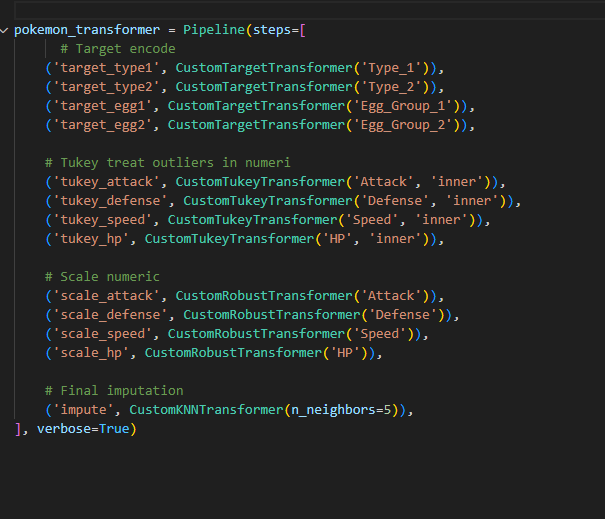
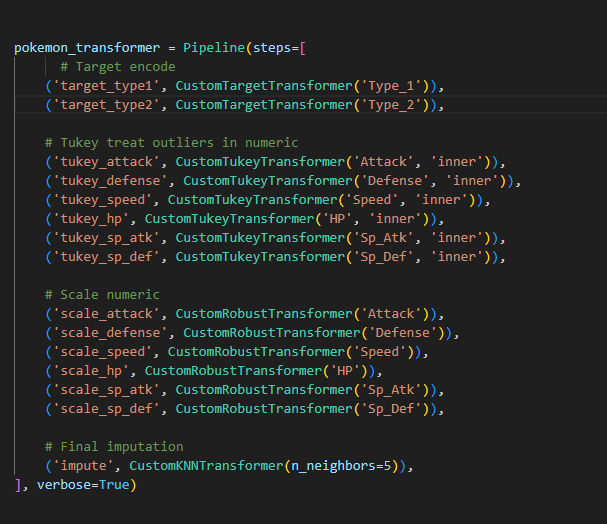
fixed wrangle

Changed region(s): [[0.0, 0.0308, 0.8628, 0.9557]]

diff --git a/library.py b/library.py
@@ -759,25 +759,26 @@ def halving_search(model, grid, x_train, y_train, factor=3, min_resources="exhau
 
 
 
-
 pokemon_transformer = Pipeline(steps=[
       # Target encode
     ('target_type1', CustomTargetTransformer('Type_1')),
     ('target_type2', CustomTargetTransformer('Type_2')),
-    ('target_egg1', CustomTargetTransformer('Egg_Group_1')),
-    ('target_egg2', CustomTargetTransformer('Egg_Group_2')),
 
-    # Tukey treat outliers in numeri
+    # Tukey treat outliers in numeric
     ('tukey_attack', CustomTukeyTransformer('Attack', 'inner')),
     ('tukey_defense', CustomTukeyTransformer('Defense', 'inner')),
     ('tukey_speed', CustomTukeyTransformer('Speed', 'inner')),
     ('tukey_hp', CustomTukeyTransformer('HP', 'inner')),
+    ('tukey_sp_atk', CustomTukeyTransformer('Sp_Atk', 'inner')),
+    ('tukey_sp_def', CustomTukeyTransformer('Sp_Def', 'inner')),
 
     # Scale numeric
     ('scale_attack', CustomRobustTransformer('Attack')),
     ('scale_defense', CustomRobustTransformer('Defense')),
     ('scale_speed', CustomRobustTransformer('Speed')),
     ('scale_hp', CustomRobustTransformer('HP')),
+    ('scale_sp_atk', CustomRobustTransformer('Sp_Atk')),
+    ('scale_sp_def', CustomRobustTransformer('Sp_Def')),
 
     # Final imputation
     ('impute', CustomKNNTransformer(n_neighbors=5)),

diff --git a/pipeline-documentation.md b/pipeline-documentation.md
@@ -4,28 +4,27 @@
 
 ## What this pipeline does
 
-- **Target encode:**  
-  Encodes `Type_1`, `Type_2`, `Egg_Group_1`, and `Egg_Group_2` using target encoding.
+- **Target encode:**
+  Encodes `Type_1` and `Type_2` using target encoding.
 
-- **Handle outliers (Tukey):**  
-  Clips outliers in  `Attack`, `Defense`, `Speed`, and `HP` using the inner Tukey method.
+- **Handle outliers (Tukey):**
+  Clips outliers in  `Attack`, `Defense`, `Speed`, `HP`, `Sp_Atk`, and `Sp_Def` using the inner Tukey method.
 
-- **Scale numeric features:**  
-  Robustly scales `Attack`, `Defense`, `Speed`, and `HP`.
+- **Scale numeric features:**
+  Robustly scales `Attack`, `Defense`, `Speed`, `HP`, `Sp_Atk`, and `Sp_Def`.
 
-- **Impute missing values:**  
+- **Impute missing values:**
   Fills in any remaining missing values using KNN (k=5).
 
 ### Features used
 
-- `Total`
 - `Type_1`
 - `Type_2`
 - `Attack`
 - `Defense`
 - `Speed`
-- `Egg_Group_1`
-- `Egg_Group_2`
+- `Sp_Atk`
+- `Sp_Def`
 - `HP`
 
-**Random state:** `rs = 10`
+**Random state:** `rs = 45`
